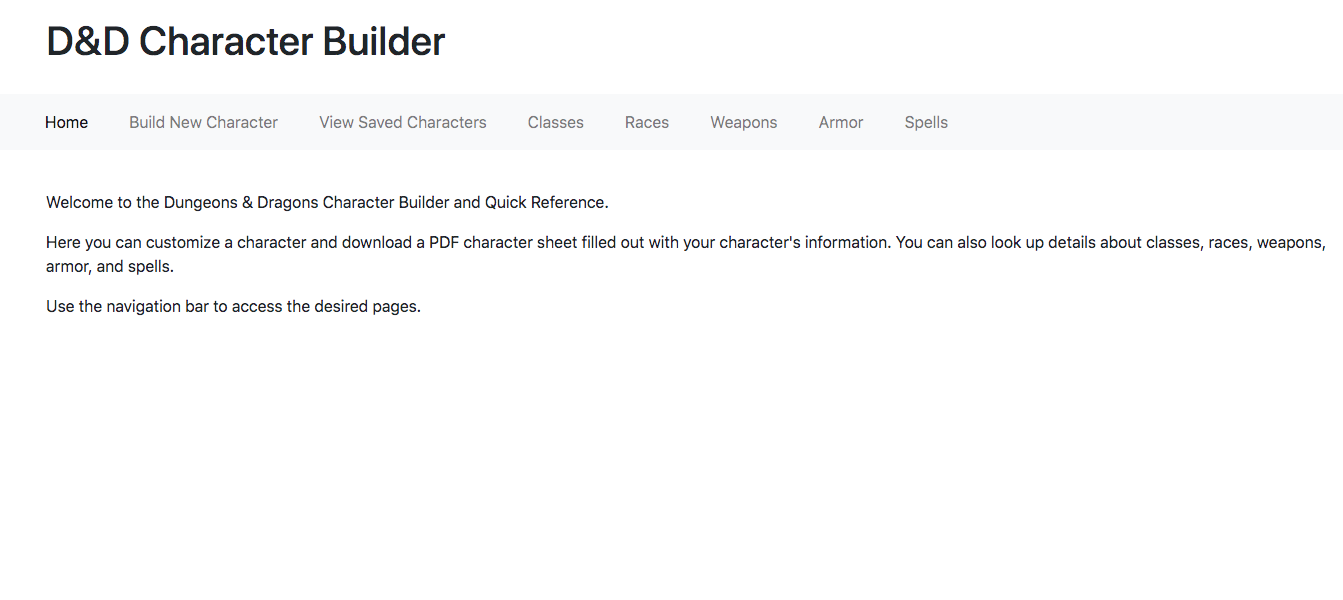
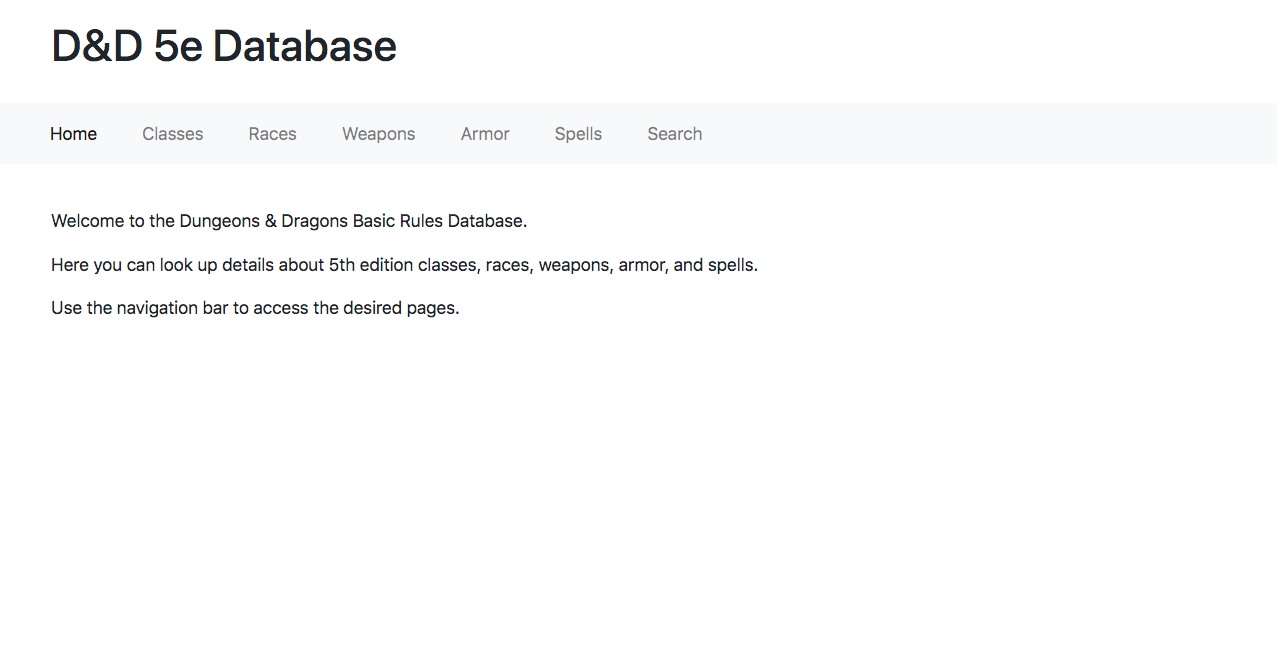
modify proj info

diff --git a/cs/index.html b/cs/index.html
@@ -111,11 +111,11 @@ Our team also put together a presentation for OSU's Fall 2019 CS Showcase. You c
 
                             <div class="item row">
                                 <a class="col-md-4 col-12" href="assets/images/projects/dnd_db.png" target="_blank">
-                                <img class="img-fluid project-image" src="assets/images/projects/dnd_db.png" alt="D&D character builder" />
+                                <img class="img-fluid project-image" src="assets/images/projects/dnd_db.png" alt="D&D database" />
                                 </a>
                                 <div class="desc col-md-8 col-12">
-                                    <h3 class="title"><a href="assets/images/projects/dnd_db.png" target="_blank">D&D Character Builder</a></h3>
-                                    <p class="mb-2">I'm currently working on a Dungeons & Dragons character builder/database to streamline the process of creating characters, looking up information, and leveling up. Logged-in users will be able to save all the characters they've created (useful for the GM, or for a player to compare several potential characters), and all users will be able to browse/search weapons, spells, etc. This was originally a Databases course project that I built with PHP and SQL - I'm now expanding it and adapting it to use JavaScript and Firebase.</p>
+                                    <h3 class="title"><a href="assets/images/projects/dnd_db.png" target="_blank">D&D Database</a></h3>
+                                    <p class="mb-2">I created a Dungeons & Dragons database with CRUD functionality for a Databases course project using MySQL, PHP, phpMyAdmin, and MariaDB. My project allows the user to browse and search classes, races, weapons, armor, and spells, and also to add, edit, and delete data (of course, adding the option for the user to modify existing data was strictly for learning purposes and not meant to represent a realistic use case).</p>
                                 </div><!--//desc-->
                             </div><!--//item-->
 
@@ -158,7 +158,14 @@ Our team also put together a presentation for OSU's Fall 2019 CS Showcase. You c
                                     <p class="mb-2">To become more familiar with Unix utilities and shell programming, I wrote a bash shell script for my Operating Systems course that performs matrix operations using input from a file or stdin. The script can print the dimensions of a matrix, transpose a matrix, calculate the mean vector of a matrix, add two matrices, and multiply two matrices.</p>
                                 </div><!--//desc-->                          
                             </div><!--//item-->                            
-                            
+                           
+                            <div class="item row">
+                                <div class="desc col-md-8 col-12">
+                                    <h3 class="title">Other Projects</h3>
+                                    <p class="mb-2">I also have several entertaining projects from my Assembly Language and Parallel Programming courses that I'd be happy to discuss.</p>
+                                </div><!--//desc-->
+                            </div><!--//item-->
+ 
                         </div><!--//content-->  
                     </div><!--//section-inner-->                
                 </section><!--//section-->
